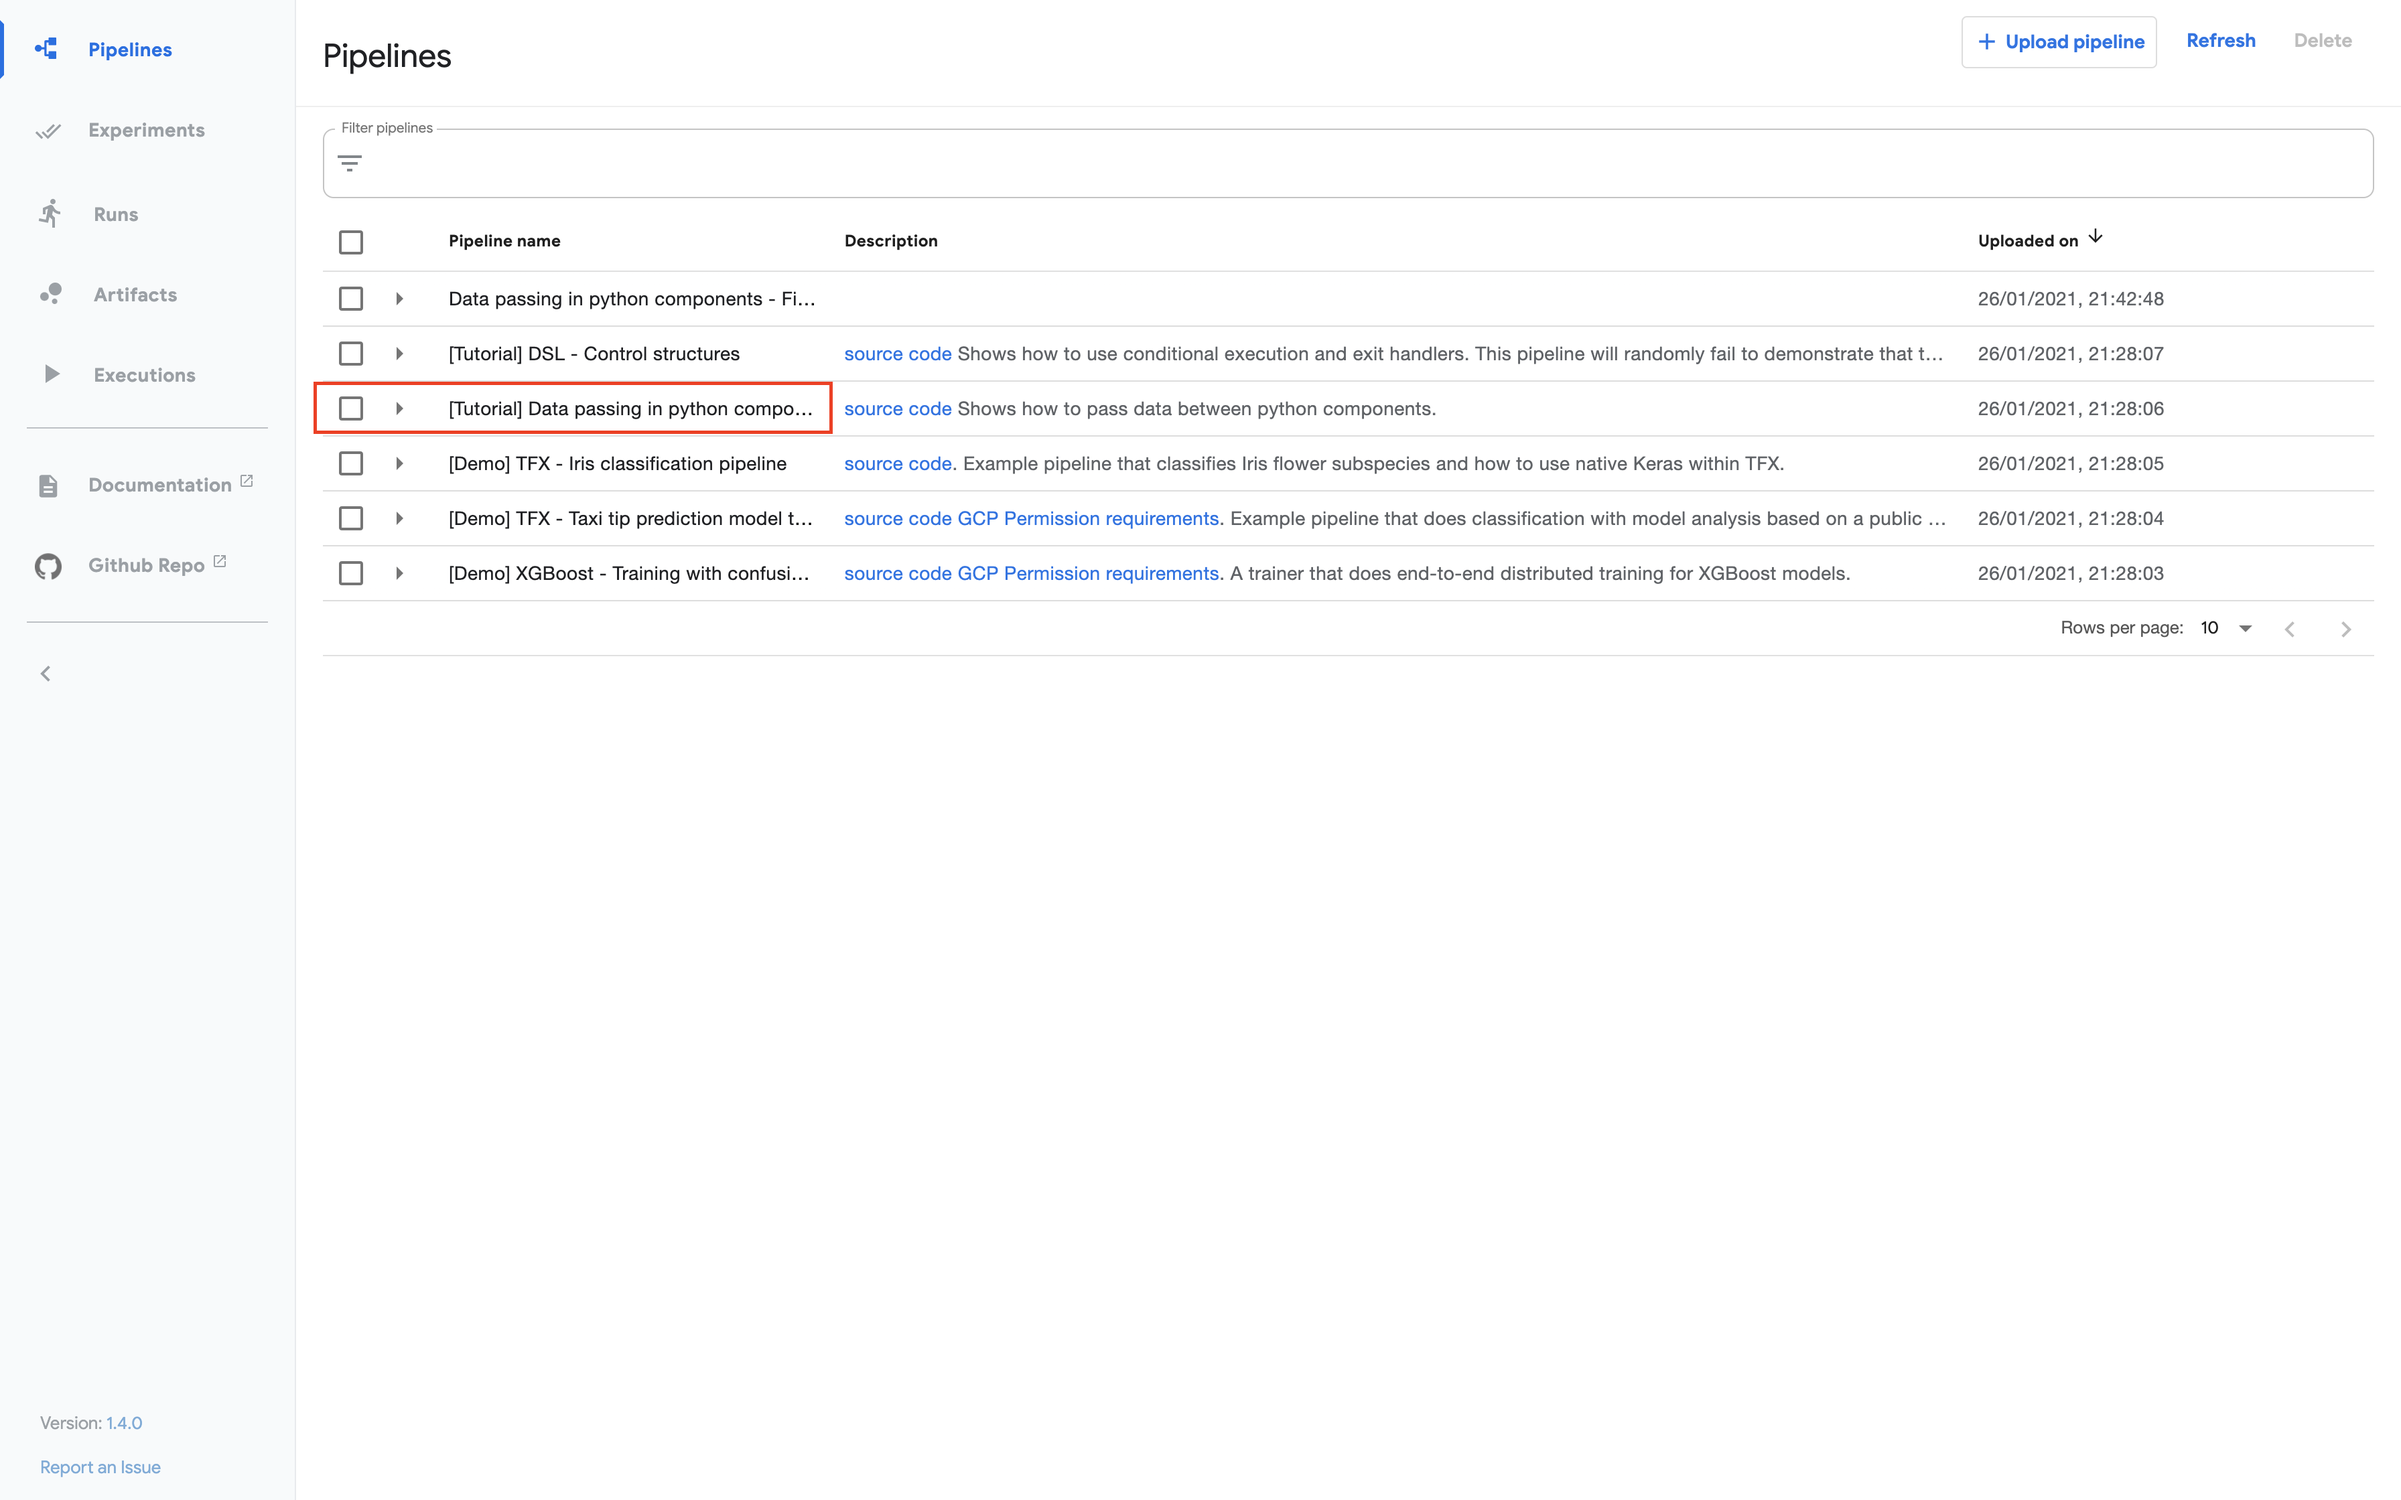
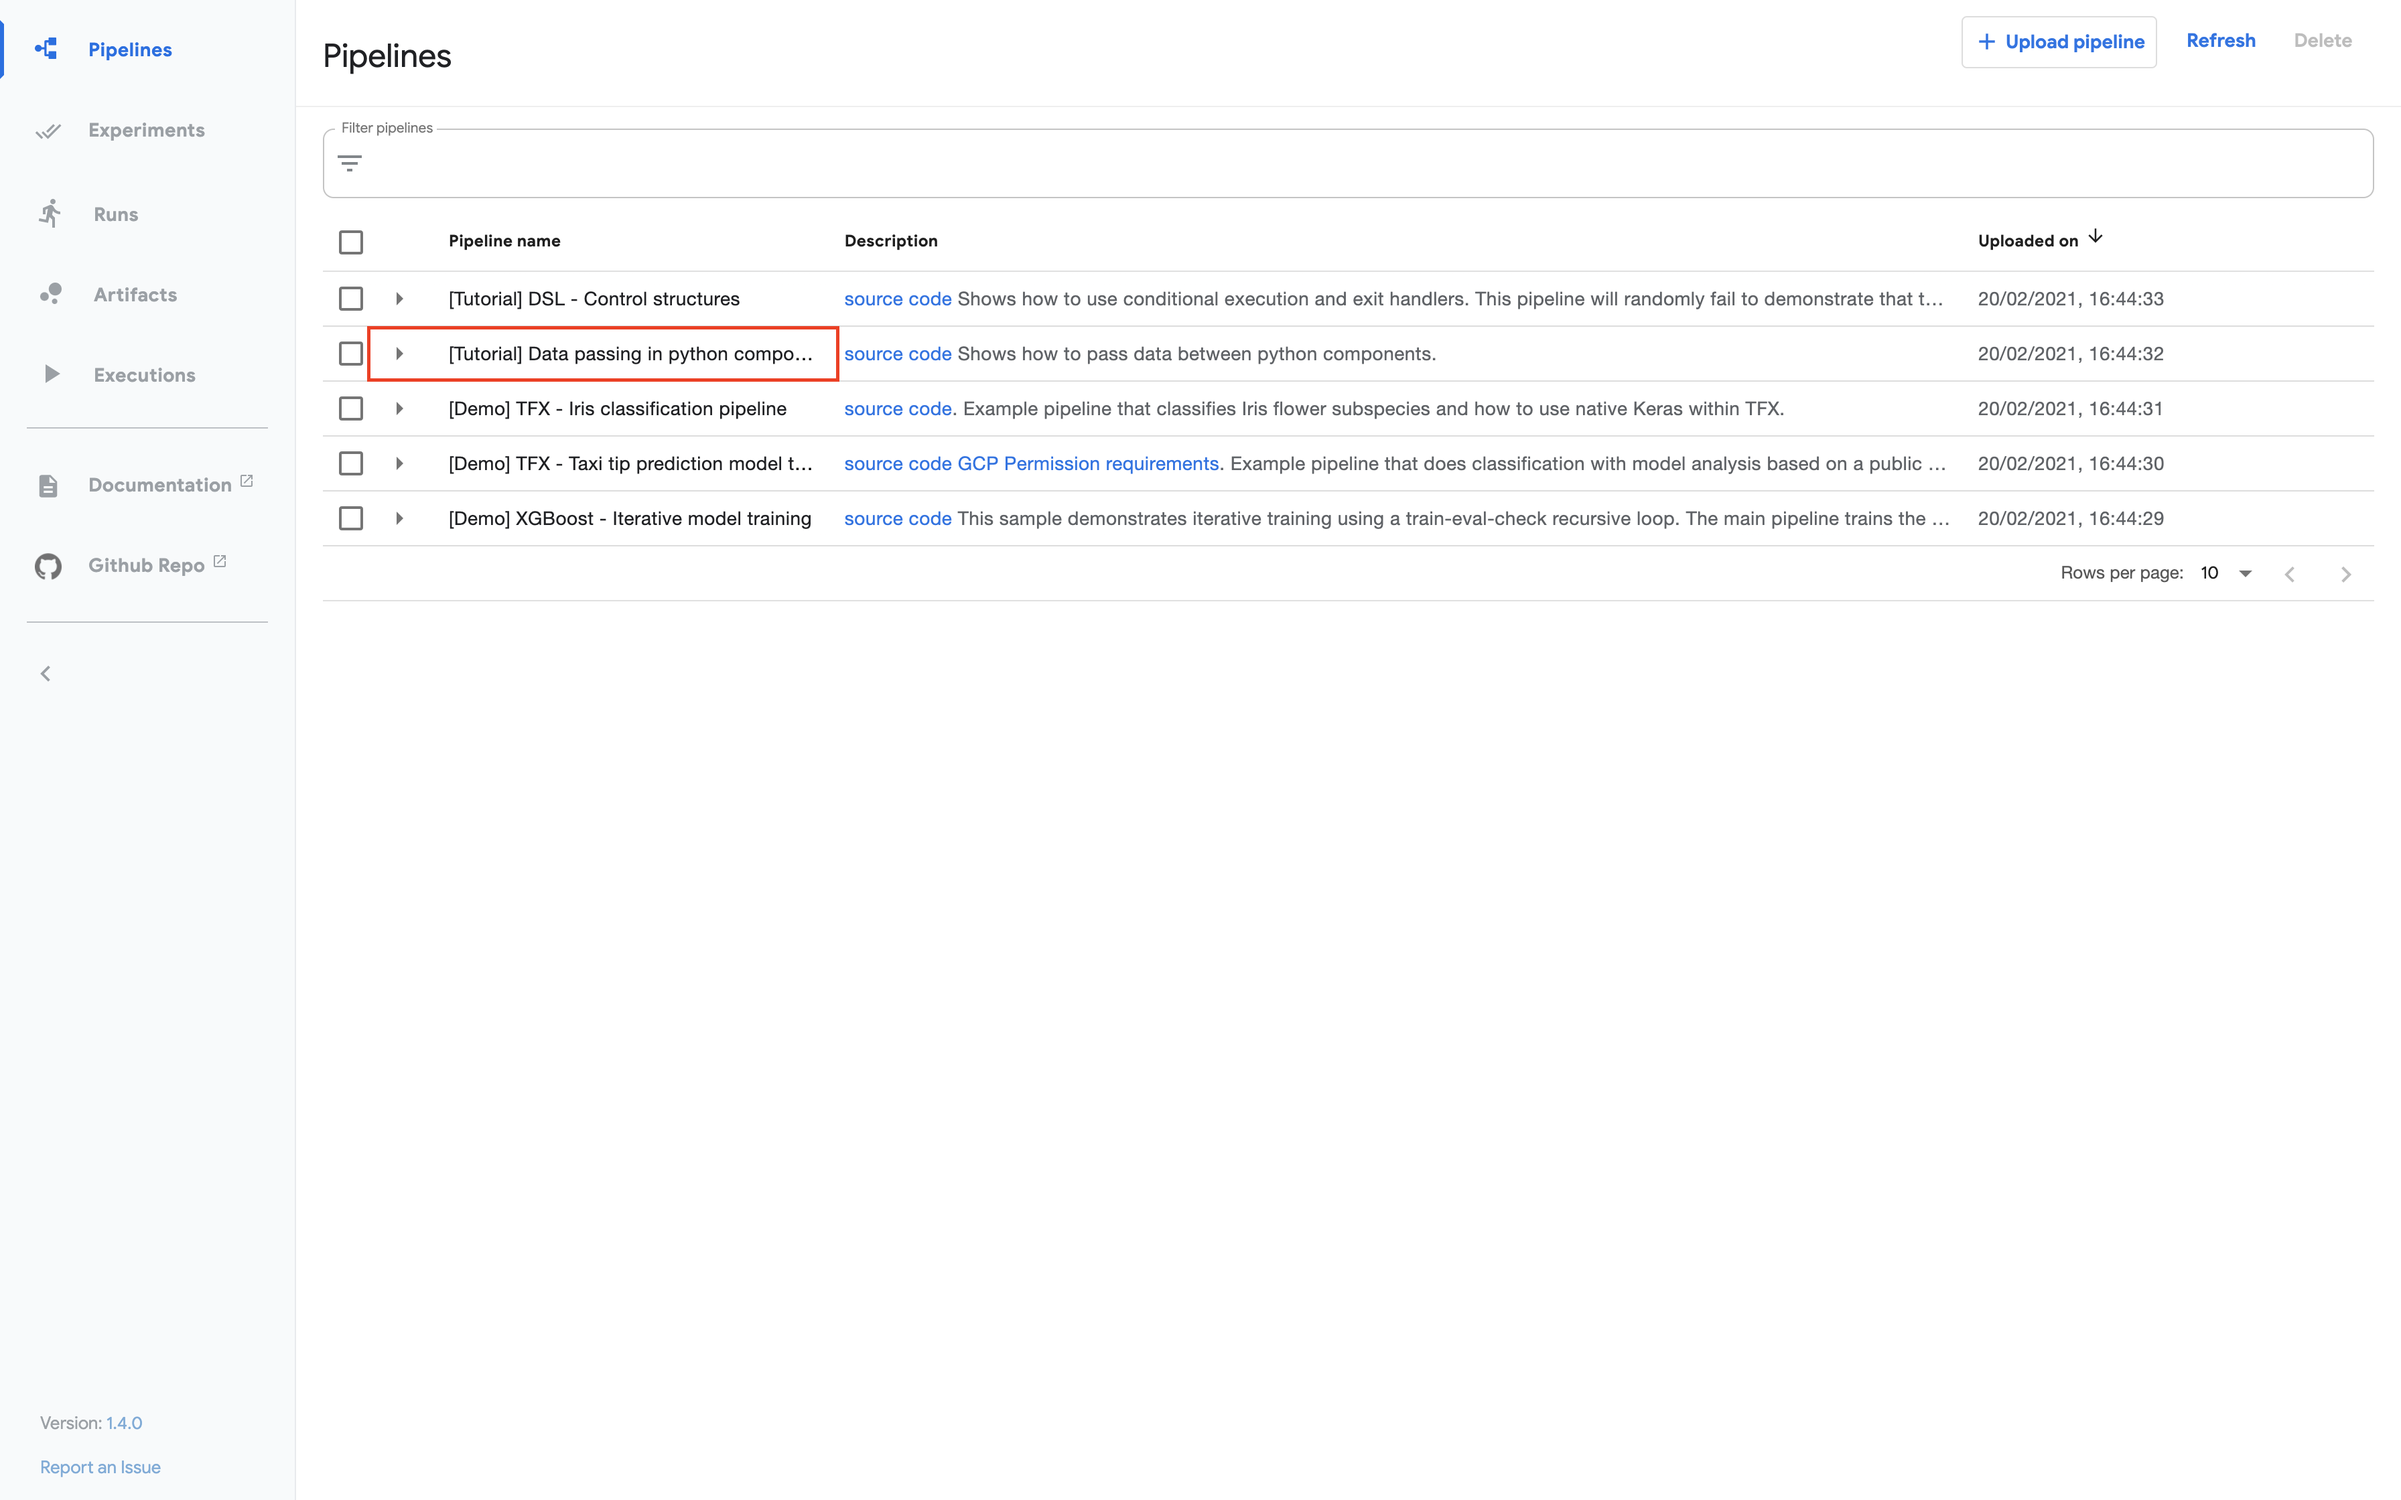
updated and proof read

diff --git a/content/en/docs/components/pipelines/pipelines-quickstart.md b/content/en/docs/components/pipelines/pipelines-quickstart.md
@@ -18,15 +18,9 @@ Kubeflow Pipelines.
 
 ## Deploy Kubeflow and open the pipelines UI
 
-There are several options to [deploy Kubeflow pipelines](/docs/installation/), follow the option that best suits your needs. If you are uncertain and just want to try out kubeflow pipelines it is recommended to start with the [standalone deployment](/docs/installation/standalone-deployment.md).
+There are several options to [deploy Kubeflow pipelines](/docs/pipelines/installation/), follow the option that best suits your needs. If you are uncertain and just want to try out kubeflow pipelines it is recommended to start with the [standalone deployment](/docs/pipelines/installation/standalone-deployment).
 
 Once you have deployed kubeflow pipelines make sure you can access the UI, this step depends on the method of deployment. 
-
-Kubeflow pipelines UI
-  this:
-  <img src="/docs/images/pipelines-ui.png" 
-    alt="Pipelines UI"
-    class="mt-3 mb-3 border border-info rounded">
 
 ## Run a basic pipeline
 
@@ -77,8 +71,7 @@ XGBoost sample does include ML components.
 Follow these steps to run the sample:
 
 1. Click the name of the sample, 
-  **\[Sample\] [Demo] XGBoost - Iterative model training**, on the pipelines 
-  UI:
+  **[Demo] XGBoost - Iterative model training**, on the pipelines UI:
   <img src="/docs/images/click-xgboost-sample.png" 
     alt="XGBoost sample on the pipelines UI"
     class="mt-3 mb-3 border border-info rounded">
@@ -86,7 +79,7 @@ Follow these steps to run the sample:
 1. Click **Create experiment**.
 1. Follow the prompts to create an **experiment** and then create a **run**.
 
-    The following partial screenshot shows the run parameters:
+    The following screenshot shows the run details:
     <img src="/docs/images/pipelines-start-xgboost-run.png" 
       alt="Starting the XGBoost run on the pipelines UI"
       class="mt-3 mb-3 border border-info rounded">
@@ -108,7 +101,7 @@ repo](https://github.com/kubeflow/pipelines/tree/master/samples/core/xgboost_tra
 ## Next steps
 
 * Learn more about the 
-  [important concepts](/docs/components/pipelines/concepts/) in Kubeflow
+  [important concepts](/docs/pipelines/overview/concepts/) in Kubeflow
   Pipelines.
 * This page showed you how to run some of the examples supplied in the Kubeflow
   Pipelines UI. Next, you may want to run a pipeline from a notebook, or compile 
